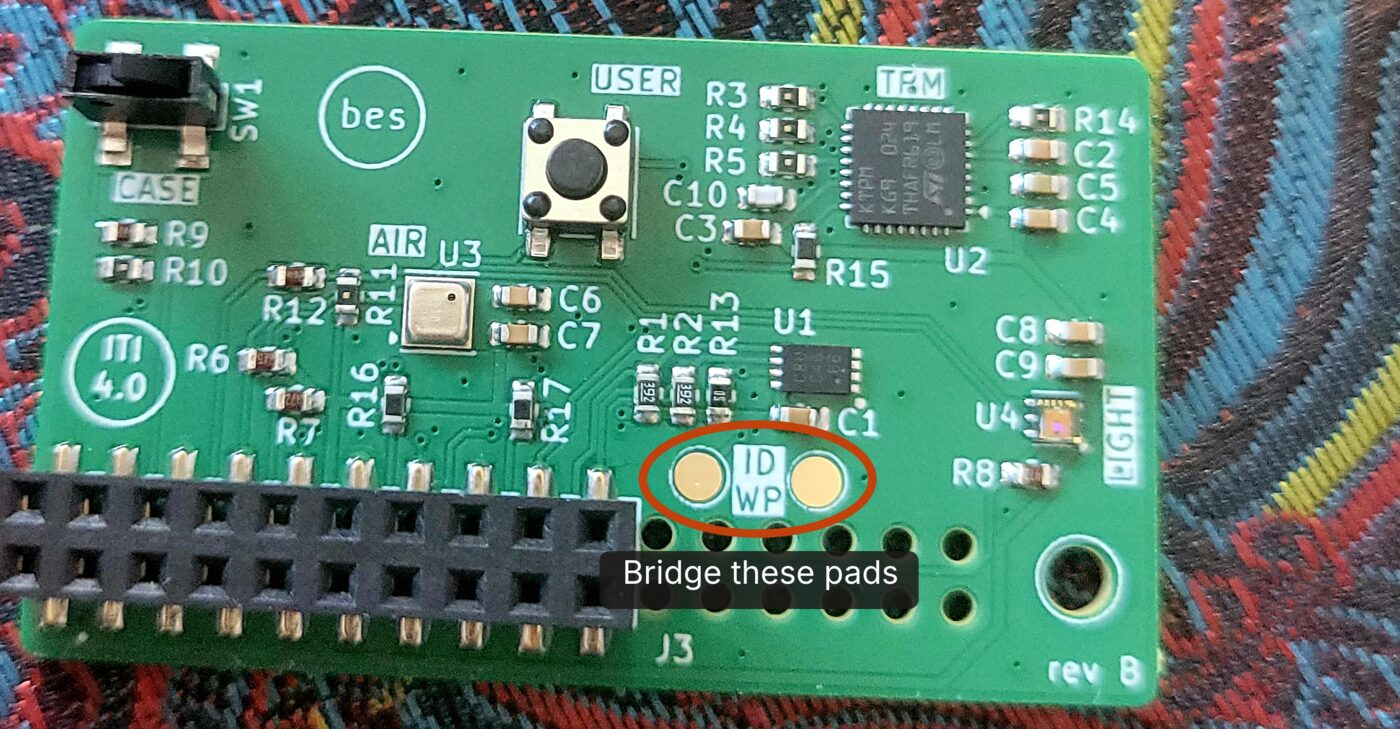
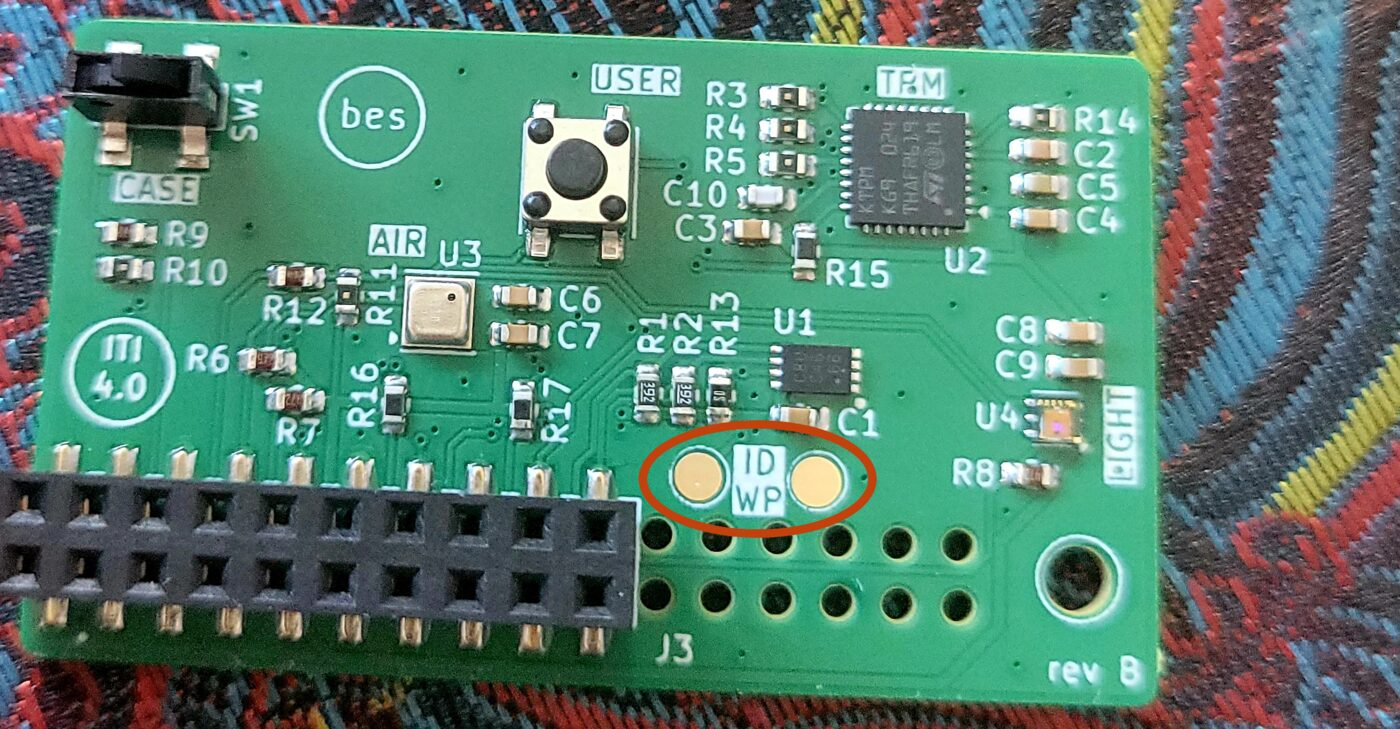
docs(workhorse): let a provisioning run carry on without a client (F4)
The device owns a provisioning run: the client starts and watches it, and pressing USER brings a board back on the air to check on it. Board photos carry only their circles, captioned by the client, and the provisioning mockup shows the check-back flow. Advertise only after USER is pressed, replacing the pressed-name variant.

Changed region(s): [[0.43, 0.7545, 0.6757, 0.845]]

diff --git a/.workhorse/design/mockups/f4/provisioning.html b/.workhorse/design/mockups/f4/provisioning.html
@@ -590,6 +590,8 @@ figure { margin: 0; width: 380px; }
 figcaption { font-size: 0.8rem; color: var(--muted); margin: 0 0 8px; }
 figure main { background: var(--page); border: 1px solid var(--line); border-radius: 12px; padding: 16px; max-width: none; }
 /* New: a board picture inside a step, and a step's prompt beneath its row. */
+.pic-caption { font-size: 0.85rem; color: var(--muted); margin: -6px 0 12px; }
+.away { margin: 12px 0 0; padding-top: 12px; border-top: 1px solid var(--line); }
 img.board { display: block; width: 100%; border-radius: 6px; margin: 0 0 12px; }
 .health li > .prompt { flex: 1 0 calc(100% - 1.5rem - 10px); margin-left: calc(1.5rem + 10px); }
 .health li > .prompt .lead { font-size: 1rem; }
@@ -601,7 +603,7 @@ img.board { display: block; width: 100%; border-radius: 6px; margin: 0 0 12px; }
 <section class="steps-body">
 <p class="lead">Press USER on the Iti</p>
 <p class="muted">Only Itis whose button was just pressed show up.</p>
-<img class="board" src="../../assets/iti-hat-rev-b-user-button.jpg" alt="The USER button, top centre of the board">
+<img class="board" src="../../assets/iti-hat-rev-b-user-button.jpg" alt=""><p class="pic-caption">USER is the button at the top, next to the TPM chip.</p>
 <button class="block">Find Iti</button>
 </section></main></figure><figure><figcaption>2. Choose the steps</figcaption><main><div class="heading title"><h1>Provision an Iti</h1><div class="actions"><button class="secondary small">Disconnect</button></div></div><ol class="steps" aria-label="Progress"><li class="done"><span class="dot">&#10003;</span><span class="name">Press USER</span></li><li class="done"><span class="dot">&#10003;</span><span class="name">Find Iti</span></li><li class="current"><span class="dot">3</span><span class="name">Provision</span></li></ol>
 <section>
@@ -616,36 +618,35 @@ img.board { display: block; width: 100%; border-radius: 6px; margin: 0 0 12px; }
 <li><span class="mark wait"><span class="spinner"></span></span><div class="body"><span class="name">Check the hardware</span><span class="detail">TPM working</span></div><div class="prompt">
 <p class="done-line">USER pressed</p>
 <p class="lead">Press and release CASE</p>
-<p class="muted">The lever switch in the corner.</p>
-<img class="board" src="../../assets/iti-hat-rev-b-case-switch.jpg" alt="The CASE lever switch, top left of the board">
+<img class="board" src="../../assets/iti-hat-rev-b-case-switch.jpg" alt=""><p class="pic-caption">CASE is the lever in the corner. Push it in, then let it spring back.</p>
 </div></li>
 <li><span class="mark" style="border:2px solid var(--line)"></span><div class="body"><span class="name">Program the EEPROM</span></div></li>
 <li><span class="mark" style="border:2px solid var(--line)"></span><div class="body"><span class="name">Set up the bootloader</span></div></li>
 <li><span class="mark" style="border:2px solid var(--line)"></span><div class="body"><span class="name">Write the system to the disk</span></div></li>
 <li><span class="mark" style="border:2px solid var(--line)"></span><div class="body"><span class="name">Set up disk encryption</span></div></li>
-</ul></section></main></figure><figure><figcaption>4. Bridging the pads</figcaption><main><div class="heading title"><div><h1>Provision an Iti</h1><p class="muted software">Code ending K7QX &middot; Tamanu Iti v4.0</p></div><div class="actions"><button class="secondary small">Disconnect</button></div></div>
+</ul><p class="muted away">You can close this page. Press USER to check back.</p></section></main></figure><figure><figcaption>4. Bridging the pads</figcaption><main><div class="heading title"><div><h1>Provision an Iti</h1><p class="muted software">Code ending K7QX &middot; Tamanu Iti v4.0</p></div><div class="actions"><button class="secondary small">Disconnect</button></div></div>
 <section><h2>Provisioning</h2><ul class="health">
 <li><span class="mark good"></span><div class="body"><span class="name">Check the hardware</span><span class="detail">Buttons, sensors and TPM all working</span></div></li>
 <li><span class="mark wait"><span class="spinner"></span></span><div class="body"><span class="name">Program the EEPROM</span><span class="detail">Empty. Will write Tamanu Iti v4.0.</span></div><div class="prompt">
 <p class="lead">Bridge the ID WP pads</p>
-<p class="muted">Hold tweezers or a screwdriver across both pads until this says to let go.</p>
-<img class="board" src="../../assets/iti-hat-rev-b-wp-pads.jpg" alt="The ID WP pads, right of centre near the header">
+<p class="muted">Hold tweezers or a screwdriver across both pads until the Iti says to let go.</p>
+<img class="board" src="../../assets/iti-hat-rev-b-wp-pads.jpg" alt=""><p class="pic-caption">The two round pads marked ID WP, beside the header.</p>
 <div class="bar-state working"><p><span class="spinner"></span>Waiting for the pads. Gives up in 4:12.</p><div class="row"><button class="secondary small" style="margin:0">Stop</button></div></div>
 </div></li>
 <li><span class="mark" style="border:2px solid var(--line)"></span><div class="body"><span class="name">Set up the bootloader</span></div></li><li><span class="mark" style="border:2px solid var(--line)"></span><div class="body"><span class="name">Write the system to the disk</span></div></li><li><span class="mark" style="border:2px solid var(--line)"></span><div class="body"><span class="name">Set up disk encryption</span></div></li>
-</ul></section></main></figure><figure><figcaption>5. Writing the disk</figcaption><main><div class="heading title"><div><h1>Provision an Iti</h1><p class="muted software">Code ending K7QX &middot; Tamanu Iti v4.0</p></div><div class="actions"><button class="secondary small">Disconnect</button></div></div>
+</ul><p class="muted away">You can close this page. Press USER to check back.</p></section></main></figure><figure><figcaption>5. Checking back while it writes the disk</figcaption><main><div class="heading title"><div><h1>Provision an Iti</h1><p class="muted software">Code ending K7QX &middot; Tamanu Iti v4.0</p></div><div class="actions"><button class="secondary small">Disconnect</button></div></div>
 <section><h2>Provisioning</h2><ul class="health">
 <li><span class="mark good"></span><div class="body"><span class="name">Check the hardware</span><span class="detail">Buttons, sensors and TPM all working</span></div></li>
-<li><span class="mark good"></span><div class="body"><span class="name">Program the EEPROM</span><span class="detail">Written and checked. You can let go of the pads.</span></div></li>
+<li><span class="mark good"></span><div class="body"><span class="name">Program the EEPROM</span><span class="detail">Written and checked</span></div></li>
 <li><span class="mark good"></span><div class="body"><span class="name">Set up the bootloader</span><span class="detail">Already up to date</span></div></li>
 <li><span class="mark wait"><span class="spinner"></span></span><div class="body"><span class="name">Write the system to the disk</span></div><div class="prompt"><div class="bar"><span style="width:42%"></span></div><p class="muted" style="margin:6px 0 0">Writing 4.1 of 9.8 GB. About 3 minutes left.</p></div></li>
 <li><span class="mark" style="border:2px solid var(--line)"></span><div class="body"><span class="name">Set up disk encryption</span></div></li>
-</ul></section></main></figure><figure><figcaption>6. A step failed</figcaption><main><div class="heading title"><div><h1>Provision an Iti</h1><p class="muted software">Code ending K7QX &middot; Tamanu Iti v4.0</p></div><div class="actions"><button class="secondary small">Disconnect</button></div></div>
+</ul><p class="muted away">You can close this page. Press USER to check back.</p></section></main></figure><figure><figcaption>6. A step failed</figcaption><main><div class="heading title"><div><h1>Provision an Iti</h1><p class="muted software">Code ending K7QX &middot; Tamanu Iti v4.0</p></div><div class="actions"><button class="secondary small">Disconnect</button></div></div>
 <section><h2>Provisioning</h2><ul class="health">
 <li><span class="mark good"></span><div class="body"><span class="name">Check the hardware</span><span class="detail">Buttons, sensors and TPM all working</span></div></li>
 <li><span class="mark bad"></span><div class="body"><span class="name">Program the EEPROM</span><span class="detail reason">Gave up after 5 minutes</span></div><div class="bar-state failed"><p>The EEPROM couldn't be written. Check the bridge touches both pads.</p><div class="row"><button class="small" style="margin:0">Try again</button><button class="secondary small" style="margin:0">Stop</button></div></div></li>
 <li><span class="mark" style="border:2px solid var(--line)"></span><div class="body"><span class="name">Set up the bootloader</span></div></li><li><span class="mark" style="border:2px solid var(--line)"></span><div class="body"><span class="name">Write the system to the disk</span></div></li><li><span class="mark" style="border:2px solid var(--line)"></span><div class="body"><span class="name">Set up disk encryption</span></div></li>
-</ul></section></main></figure><figure><figcaption>7. Done</figcaption><main><div class="heading title"><h1>Provision an Iti</h1><div class="actions"><button class="secondary small">Disconnect</button></div></div><ol class="steps" aria-label="Progress"><li class="done"><span class="dot">&#10003;</span><span class="name">Press USER</span></li><li class="done"><span class="dot">&#10003;</span><span class="name">Find Iti</span></li><li class="done"><span class="dot">&#10003;</span><span class="name">Provision</span></li></ol>
+</ul><p class="muted away">You can close this page. Press USER to check back.</p></section></main></figure><figure><figcaption>7. Done</figcaption><main><div class="heading title"><h1>Provision an Iti</h1><div class="actions"><button class="secondary small">Disconnect</button></div></div><ol class="steps" aria-label="Progress"><li class="done"><span class="dot">&#10003;</span><span class="name">Press USER</span></li><li class="done"><span class="dot">&#10003;</span><span class="name">Find Iti</span></li><li class="done"><span class="dot">&#10003;</span><span class="name">Provision</span></li></ol>
 <section>
 <p class="done-line">Provisioned</p>
 <p class="lead">K7QX is ready</p>
@@ -654,7 +655,7 @@ img.board { display: block; width: 100%; border-radius: 6px; margin: 0 0 12px; }
 <dt>Version</dt><dd>Tamanu Iti v4.0</dd>
 <dt>Code ending</dt><dd>K7QX</dd>
 <dt>Recovery passphrase</dt><dd class="secret">t7#Kq2!vRw9@Lm4$Xp8&amp;Zn3^Hb6<button class="link">Copy</button></dd>
-</dl><p class="muted hint">Shown once here, and saved to the SD card.</p></div></div>
+</dl><p class="muted hint">Also saved to the SD card.</p></div></div>
 <button class="block" style="margin-top:16px">Download label sheet (3 labels)</button>
 <div class="links"><button class="link">Provision another Iti</button></div>
 </section></main></figure>

diff --git a/.workhorse/working-docs/f4/working-doc.md b/.workhorse/working-docs/f4/working-doc.md
@@ -48,7 +48,7 @@ The EEPROM is write-protected unless two test pads are bridged (the HAT design g
 The flow:
 
 1. Detect the EEPROM, and whether it is already programmed
-2. Tell the assembler to bridge the pads, with a picture of the board showing where: the rev B photo with the ID WP pads circled and labelled (`.workhorse/design/assets/iti-hat-rev-b-wp-pads.jpg`, beside the USER button and CASE switch pictures), shipped with the provisioning client
+2. Tell the assembler to bridge the pads, with a picture of the board showing where: the rev B photo with the ID WP pads circled, captioned in the client (`.workhorse/design/assets/iti-hat-rev-b-wp-pads.jpg`, beside the USER button and CASE switch pictures), shipped with the provisioning client
 3. Repeatedly try to write until a write succeeds
 4. Tell the assembler they can let go
 5. Read back and verify
@@ -92,7 +92,21 @@ A step that fails stops the run and says why, and the assembler can run it again
 The label and record are offered at the end of any run whose chosen steps all passed, since the QR code comes from the TPM board ID whichever steps ran.
 At the end the client tells the assembler to power the board off and remove the SD card.
 
-#### Flashing the NVMe
+#### The run belongs to the device
+
+Writing the image from the SD card to the NVMe is slow, so a run carries on whether or not a client is connected: the client starts it and watches it, and closing the page or walking away leaves it running.
+That lets an assembler start several boards, each on its own SD card, and check back on each, or do one at a time without keeping a phone beside it.
+
+The steps that need a person come first (the hardware check, then the EEPROM's bridge), and the long unattended ones after (bootloader, NVMe, keys), so the assembler is needed only at the start.
+The device watches for those actions itself (CASE's lever, the bridge), so a person can complete them with no client connected; only confirming an EEPROM overwrite needs an answer, from a client or the console.
+A run that fails stops at that step and waits.
+
+Pressing USER puts the board back on the air for five minutes whatever the run is doing, and connecting shows where it is: the step list with its states, or the finished record. Choosing steps only comes up when nothing is running.
+The finished record and label wait on the device for whichever client connects next, and the record is on the SD card regardless.
+A run does not survive the board losing power: the SD boots back into provisioning with nothing running, and the assembler starts again, choosing only the steps still to do.
+
+Each SD card keeps its own records file, so a bench of several SD cards spreads the records across them until they are gathered; the central register card is what fixes that properly.
+
 
 The image is the `linux-images` `pi` variant.
 Its LUKS2 root ships with an empty placeholder passphrase and the image's own volume key; the volume key is rotated per board (`linux-images` already supports this: the `pi` image rekeys itself on first boot, `image.identity.luks-rekey`).
@@ -165,6 +179,8 @@ It shares the channel, protocol and wasm code with the operator app.
 
 Its flow, one board per tab:
 
+Each board picture carries only an orange circle; the client captions it with where the part is and what to do, so the words stay legible at phone width.
+
 1. **Find the board.** Asks the assembler to press USER on the board, with the board picture showing where (`iti-hat-rev-b-user-button.jpg`), and offers finding it as the primary action: the chooser, filtered on the provisioning marker.
 2. **Choose the steps.** Shows the board's suffix and the steps in order, each with a checkbox, all ticked by default, and starting as the primary action.
 3. **Run.** The step list stays on screen with each step's state (waiting, running, passed, failed, skipped); the current step's prompt sits beneath it:
@@ -172,7 +188,10 @@ Its flow, one board per tab:
    - EEPROM: what the EEPROM holds now and what will be written; where it holds something else, confirming the overwrite; then "Bridge these pads" with the pads picture (`iti-hat-rev-b-wp-pads.jpg`), switching to "You can let go" once written, then the verify result
    - Bootloader, NVMe and keys: progress, with the NVMe write and read-back as a progress bar
    - A failed step says why and offers to try that step again, or to stop
-4. **Done.** The board's record, with the recovery passphrase shown once with a copy action; the label added to the browser's pending sheet, and downloading the sheet as the primary action; then "Power off the board and remove the SD card".
+Every running screen says the page can be closed and that pressing USER checks back.
+Finding a board that is mid-run goes straight to its step list.
+
+4. **Done.** The board's record, with the recovery passphrase and a copy action; the label added to the browser's pending sheet, and downloading the sheet as the primary action; then "Power off the board and remove the SD card".
 
 Mockup: provisioning an Iti, every screen (`.workhorse/design/mockups/f4/provisioning.html`). It reuses the operator app's own components: the step dots of reaching a device, the Status screen's rows with their marks, and its bar-state panels; the only new pieces are a board picture inside a step, and a step's prompt beneath its row.
 
